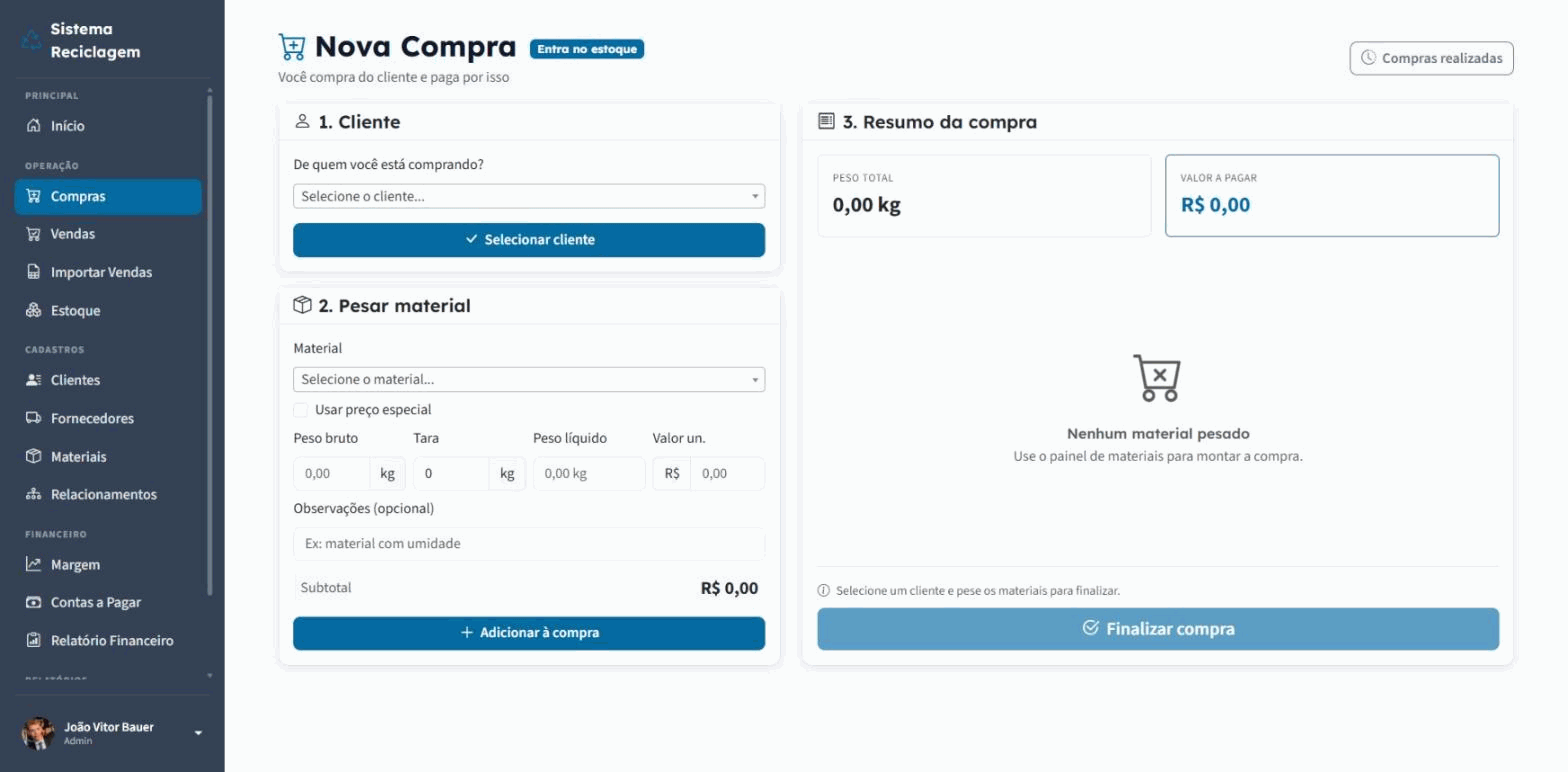
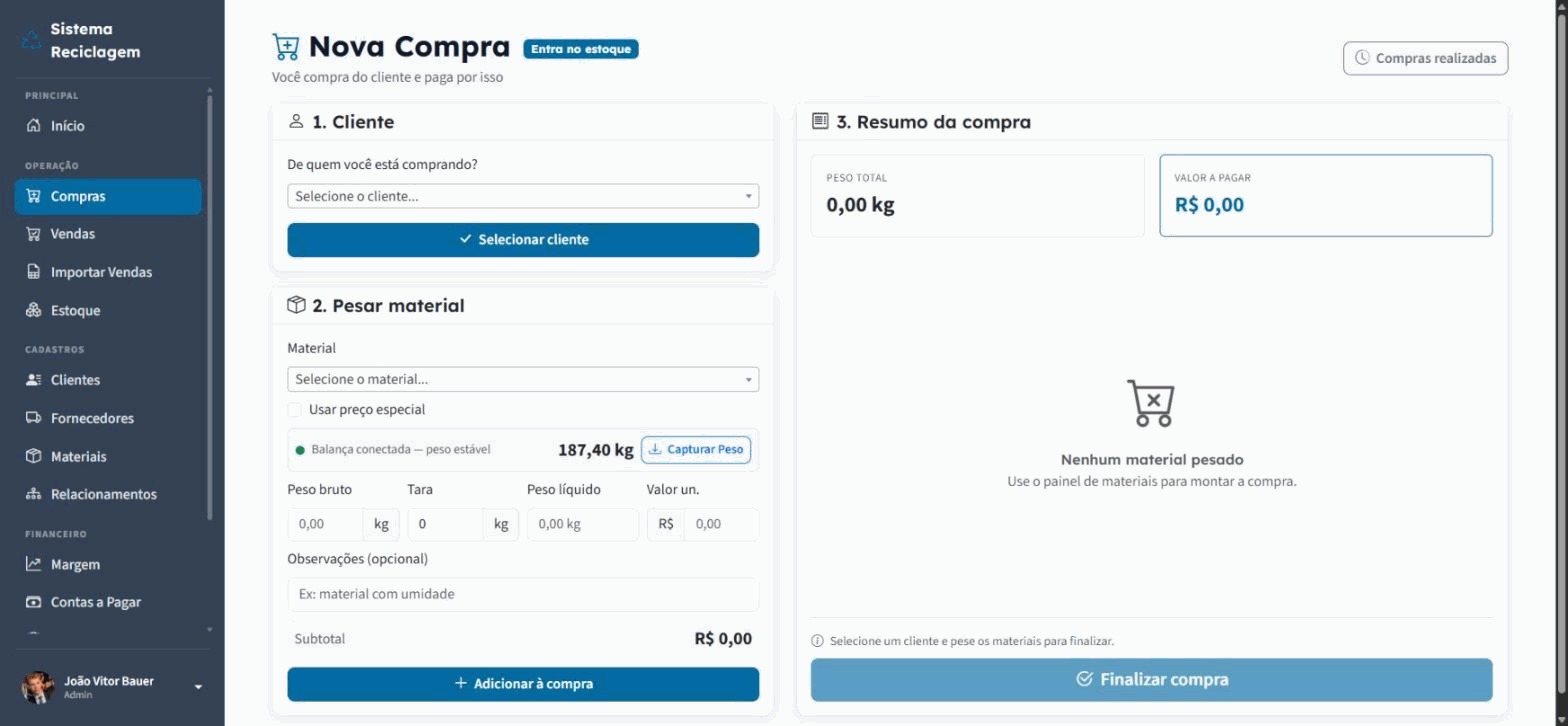
docs: atualiza prints de compra e venda com a leitura da balança
As telas de registro de compra e de venda são as duas que incluem
components/balanca.php, e eram as únicas capturas em que a integração não
aparecia. Refeitas com o agente no ar: a faixa mostra "Balança conectada — peso
estável", o valor lido e o botão Capturar Peso.

O texto do guia de uso explica, nas duas telas, que essa faixa só existe quando
o agente está rodando e que, sem ele, o peso é digitado à mão — o resto da tela
não muda. A nota da seção de arquitetura passa a dizer que o agente é um
programa à parte, que vive em outro repositório e não faz parte desta
instalação. Continua sem instruções de instalação do agente, que são
responsabilidade do repositório dele.

As capturas mostram apenas status, peso e botão: nenhuma porta serial, endereço
de rede ou caminho de máquina aparece.

diff --git a/README.md b/README.md
@@ -52,8 +52,10 @@ gerenciadas pelo Composer: PHPMailer (envio de comprovante), Dompdf (geração d
 PDF), PhpSpreadsheet (importação e exportação de planilhas) e phpdotenv
 (configuração).
 
-> A integração com balança física será um projeto separado, fora deste
-> repositório. Por enquanto, o peso é digitado manualmente na tela de compra.
+> O agente que conversa com a balança é um programa à parte, que vive em outro
+> repositório e **não faz parte desta instalação**. O sistema funciona sem ele:
+> o peso é digitado à mão. Quando o agente está no ar, as telas de compra e de
+> venda passam a exibir a leitura automática.
 
 ---
 
@@ -310,6 +312,13 @@ A tela é montada em três blocos, na ordem em que o atendimento acontece:
    líquido e o subtotal são calculados. Cada material pesado vira um item.
 3. **Resumo da compra** — acumula os itens e fecha a operação.
 
+**A faixa com a leitura da balança** — na captura acima, "Balança conectada —
+peso estável", com o valor e o botão *Capturar Peso* — só aparece quando o
+agente da balança está rodando. Com ele no ar, o operador confere o número no
+visor e traz o peso para o formulário com um clique. **Sem o agente, a faixa não
+é exibida** e o campo de peso é preenchido manualmente; o resto da tela funciona
+igual.
+
 Ao finalizar, o sistema grava a compra, **dá entrada no estoque** de cada material
 e registra a movimentação. O comprovante pode ser impresso em PDF ou enviado por
 e-mail ao cliente.
@@ -332,6 +341,9 @@ Simétrica à compra, com duas diferenças importantes:
 - **O preço é negociado por venda**, não vem do cadastro. O preço do material é
   preço de compra; a venda à indústria é negociada caso a caso, e é dessa
   diferença que sai a margem.
+
+A leitura da balança funciona aqui como na compra: a faixa aparece quando o
+agente está rodando e some quando não está, caso em que a quantidade é digitada.
 
 ![Lista de vendas](images/readme/10-vendas-lista.png)
 
